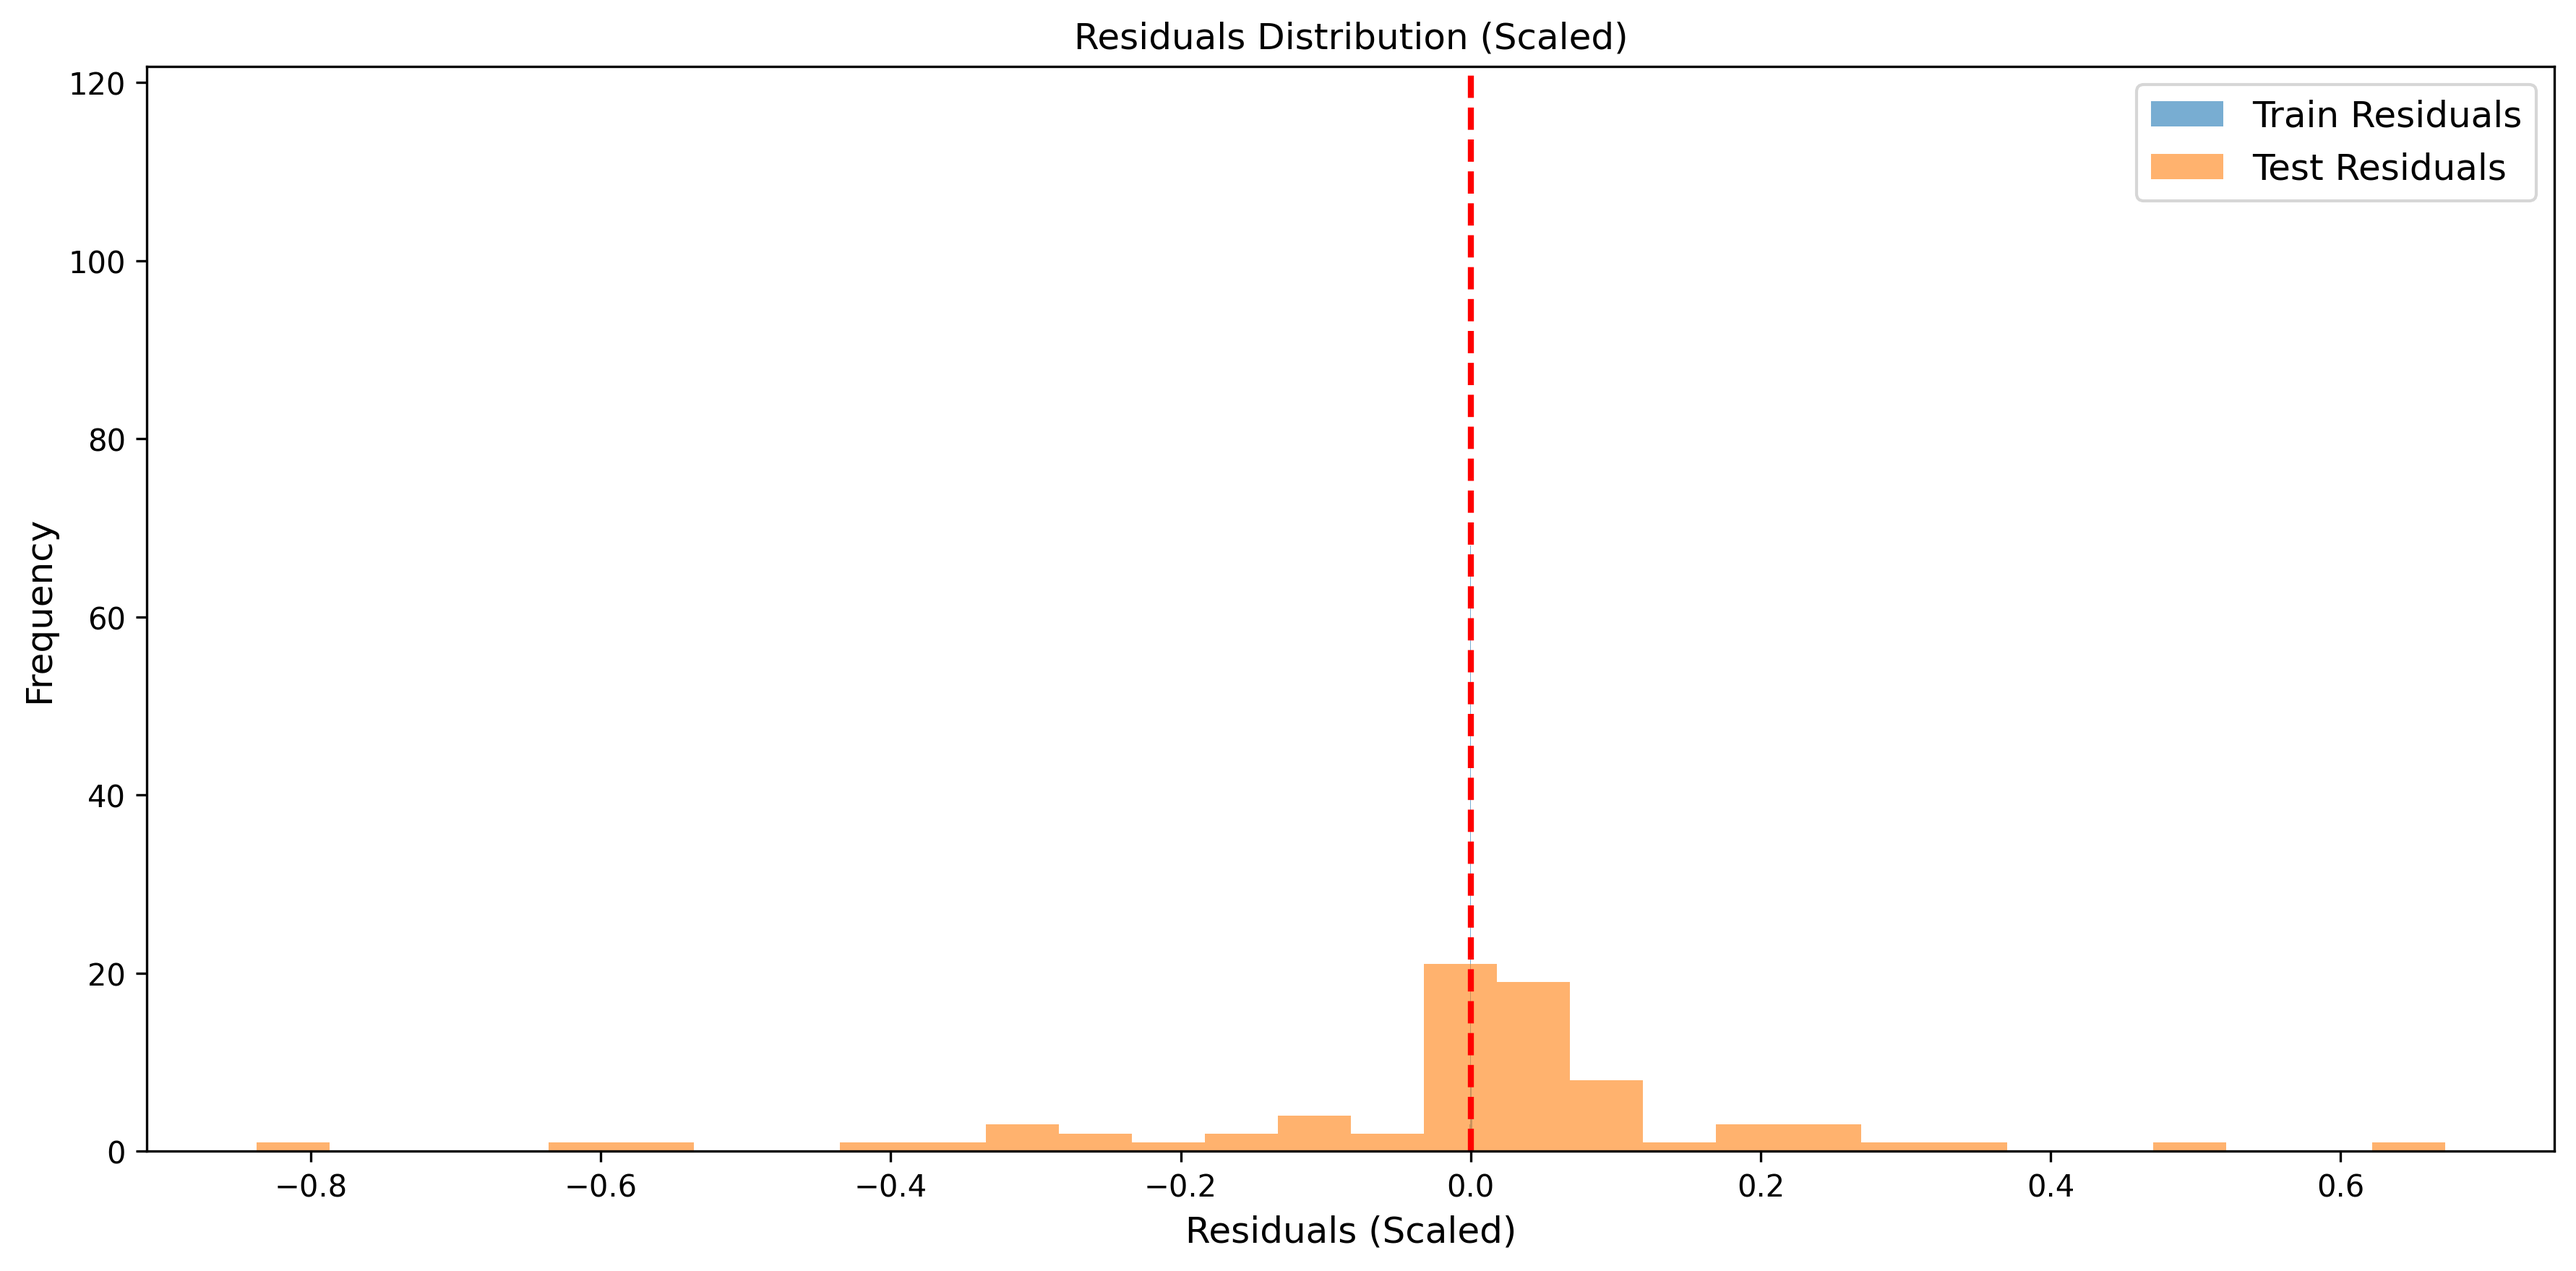
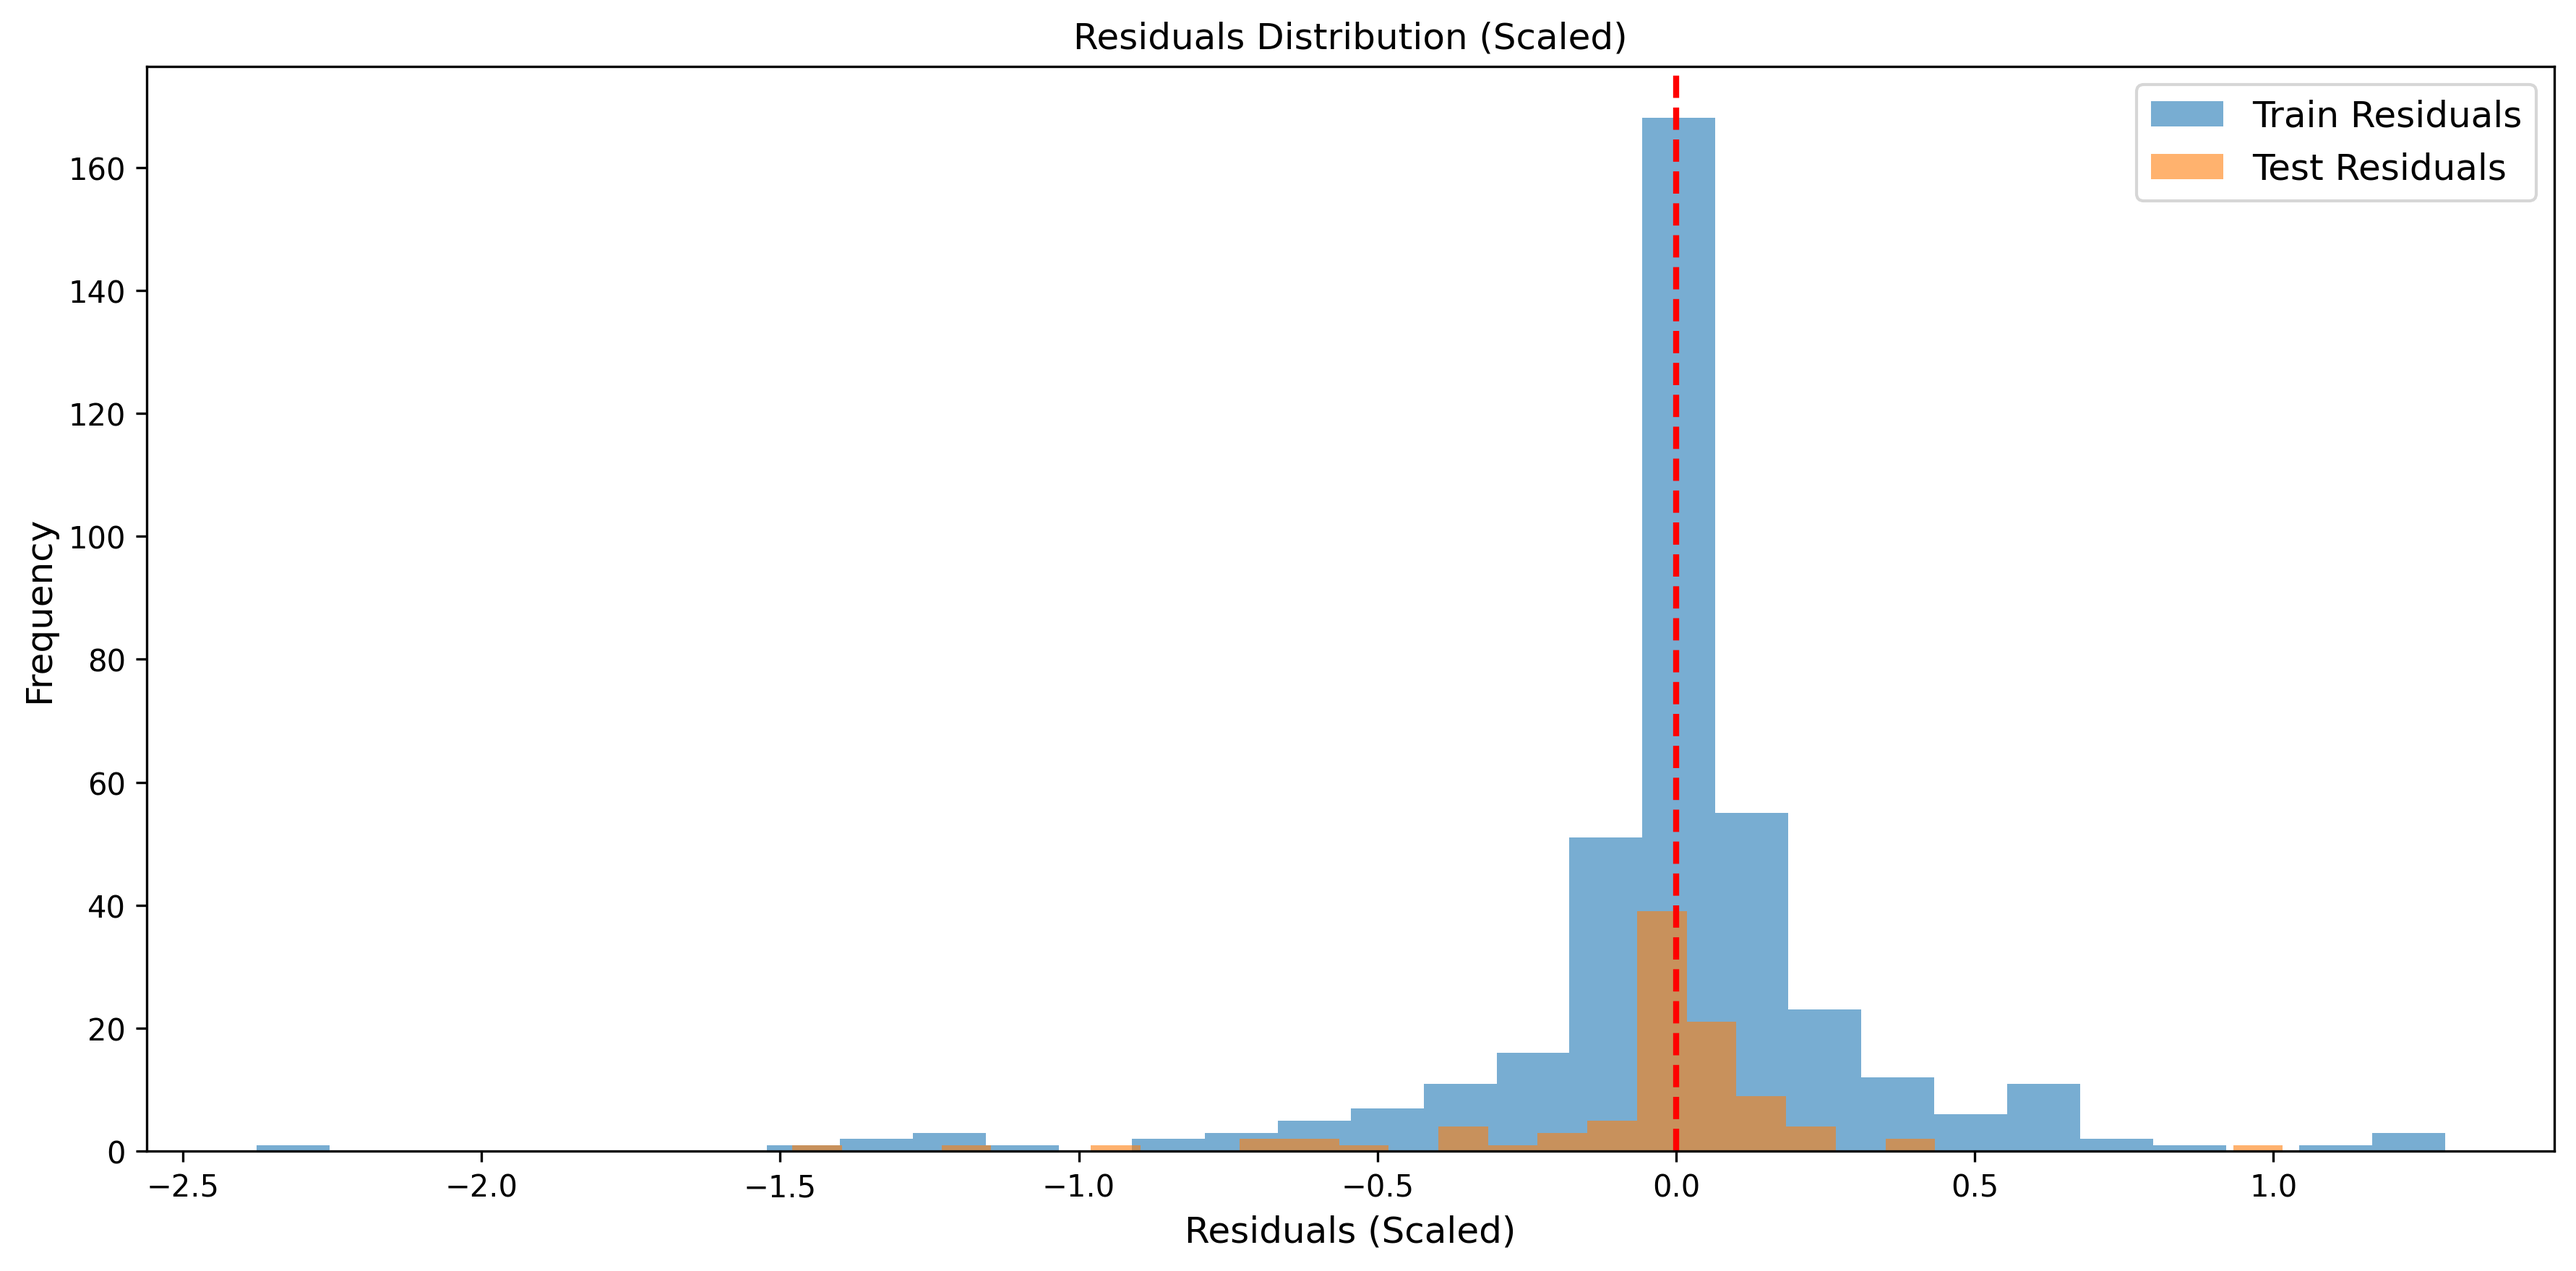
2

diff --git a/octachedral_gaussian/datafit_test/Ru/test.py b/octachedral_gaussian/datafit_test/Ru/test.py
@@ -238,6 +238,14 @@ if cfg.BINNING_ENABLED:
     X_filtered = np.array(X_smoothed).reshape(-1, 1)
     y_filtered = np.array(y_smoothed).ravel()
     print(f"滑动窗口平滑完成。生成数据点: {len(y_filtered)} 个。")
+
+    # --- ⭐ 2.1 在平滑后再次进行异常值检测 (新步骤) ---
+    print("在平滑数据后再次进行异常值检测...")
+    points_before = len(y_filtered)
+    # 使用 z-score 方法移除平滑后的数据中的异常值
+    X_filtered, y_filtered = remove_outliers(X_filtered, y_filtered, method='zscore')
+    points_after = len(y_filtered)
+    print(f"移除了 {points_before - points_after} 个平滑后的异常点。剩余数据点: {points_after} 个。")
 # -----------------------------------------------
 
 # 3. 标准化
@@ -379,4 +387,3 @@ plt.legend(fontsize=cfg.FONT_SIZE_LEGEND)
 plt.tight_layout()
 save_plot("Figure_7_Residuals_Distribution")
 plt.show()
-

diff --git a/octachedral_gaussian/datafit_test/Ru/gpr_config.py b/octachedral_gaussian/datafit_test/Ru/gpr_config.py
@@ -29,13 +29,13 @@ INITIAL_ALPHA = 1e-2
 INITIAL_N_RESTARTS = 5   
 
 # 最终训练时的参数 (⭐ 关键调整：增加 GPR 鲁棒性)
-FINAL_ALPHA = 1e-4       # 从 1e-5 增大到 1e-4，减少过度拟合和震荡
+FINAL_ALPHA = 1e-2       # 从 1e-5 增大到 1e-4，减少过度拟合和震荡
 FINAL_N_RESTARTS = 20    
 
 # --- 6. 数据平滑配置 ---
 BINNING_ENABLED = True     # ⭐ 启用滑动窗口平滑
-WINDOW_WIDTH = 0.4         # 窗口的宽度 (例如 0.5 度)
-STEP_SIZE = 0.2           # 滑动窗口的步长 (例如 0.25 度，重叠 50%)
+WINDOW_WIDTH = 0.3         # 窗口的宽度 (例如 0.5 度)
+STEP_SIZE = 0.15           # 滑动窗口的步长 (例如 0.25 度，重叠 50%)
 
 # --- 4. 候选核函数定义 (优化后) ---
 from sklearn.gaussian_process.kernels import RBF, ConstantKernel as C, Matern, WhiteKernel

diff --git a/octachedral_gaussian/datafit_test/Sn/gpr_config.py b/octachedral_gaussian/datafit_test/Sn/gpr_config.py
@@ -34,8 +34,8 @@ FINAL_N_RESTARTS = 20
 
 # --- 6. 数据平滑配置 ---
 BINNING_ENABLED = True     # ⭐ 启用滑动窗口平滑
-WINDOW_WIDTH = 0.2         # 窗口的宽度 (例如 0.5 度)
-STEP_SIZE = 0.1           # 滑动窗口的步长 (例如 0.25 度，重叠 50%)
+WINDOW_WIDTH = 0.6         # 窗口的宽度 (例如 0.5 度)
+STEP_SIZE = 0.2           # 滑动窗口的步长 (例如 0.25 度，重叠 50%)
 
 # --- 4. 候选核函数定义 (优化后) ---
 from sklearn.gaussian_process.kernels import RBF, ConstantKernel as C, Matern, WhiteKernel

diff --git a/octachedral_gaussian/datafit_test/Mn/gpr_config.py b/octachedral_gaussian/datafit_test/Mn/gpr_config.py
@@ -29,7 +29,7 @@ INITIAL_ALPHA = 1e-2
 INITIAL_N_RESTARTS = 5   
 
 # 最终训练时的参数 (⭐ 关键调整：增加 GPR 鲁棒性)
-FINAL_ALPHA = 1e-4       # 从 1e-5 增大到 1e-4，减少过度拟合和震荡
+FINAL_ALPHA = 1e-2       # 从 1e-5 增大到 1e-4，减少过度拟合和震荡
 FINAL_N_RESTARTS = 20    
 
 # --- 6. 数据平滑配置 ---
